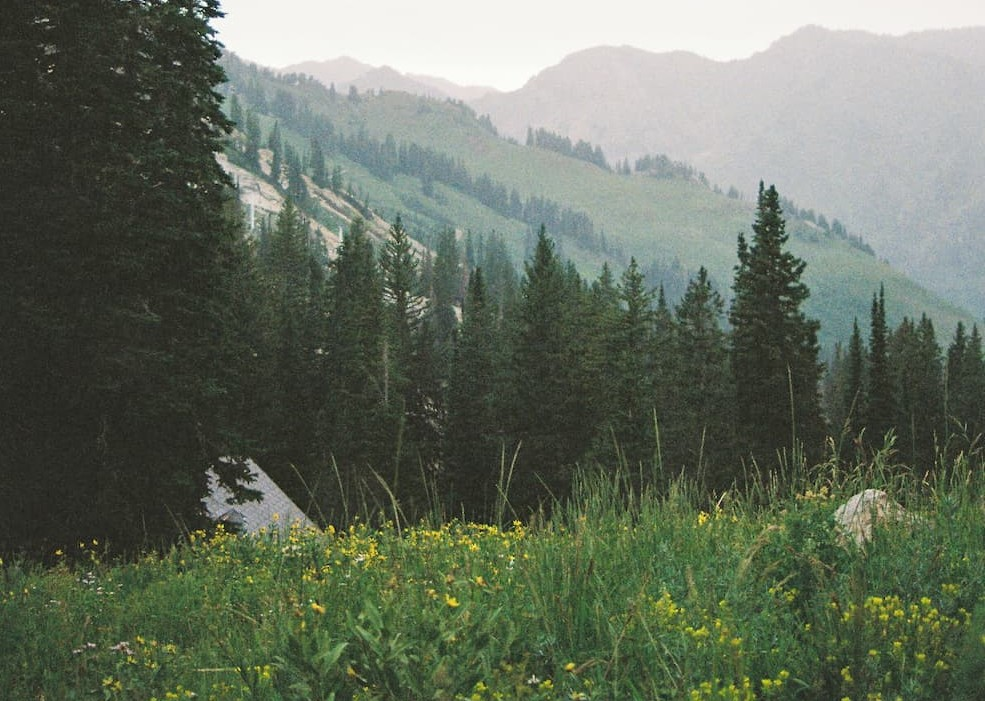
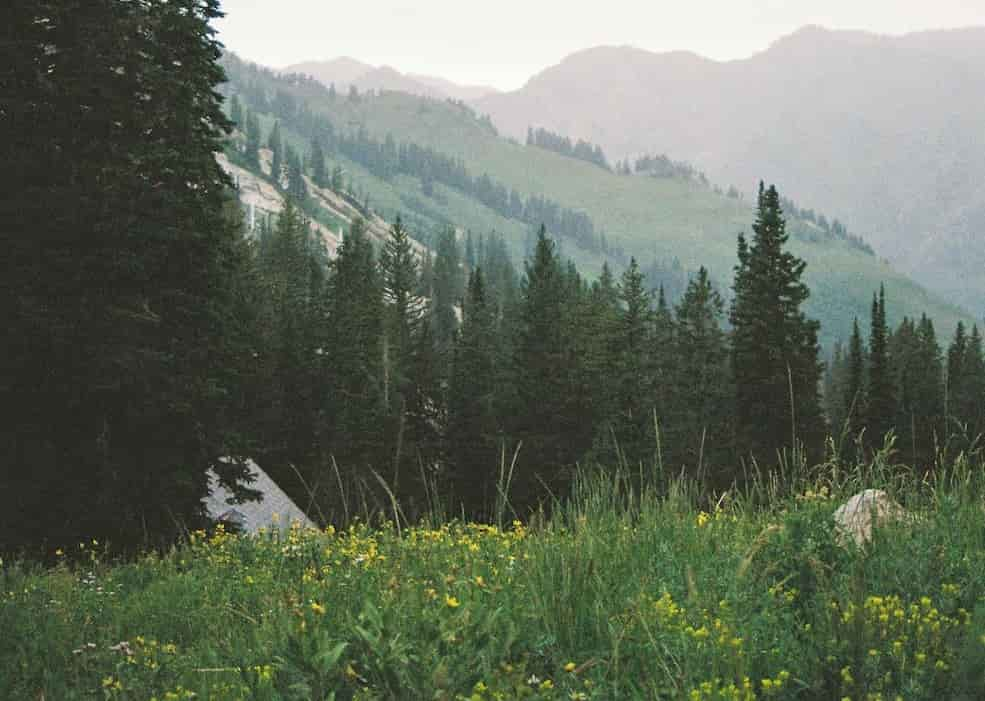
hi

diff --git a/wwr/about.html b/wwr/about.html
@@ -17,10 +17,10 @@
         <div id="logo">Rafting Travel</div>
         <nav>
             <ul class="navigation">
-                <li><a href="#">Service</a></li>
-                <li><a href="#">Products</a></li>
-                <li><a href="#">History</a></li>
-                <li><a href="#">Contact Us</a></li>
+                <li><a href="home">Home</a></li>
+                <li><a href="about">About Us</a></li>
+                <li><a href="trips">Trips</a></li>
+                <li><a href="contact">Contact Us</a></li>
             </ul>
         </nav>
 
